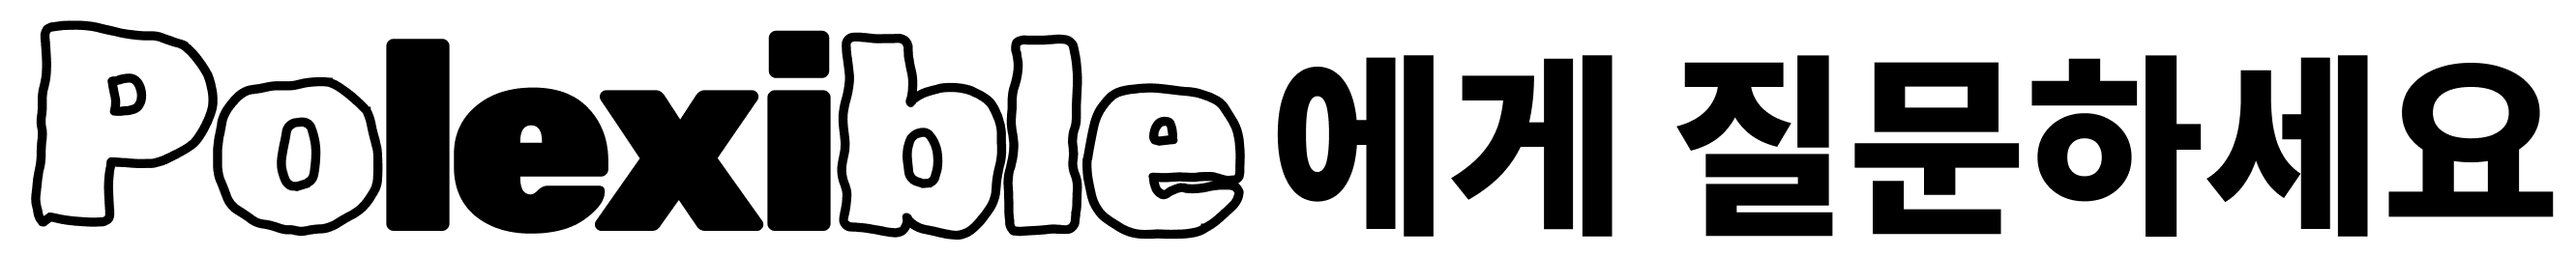
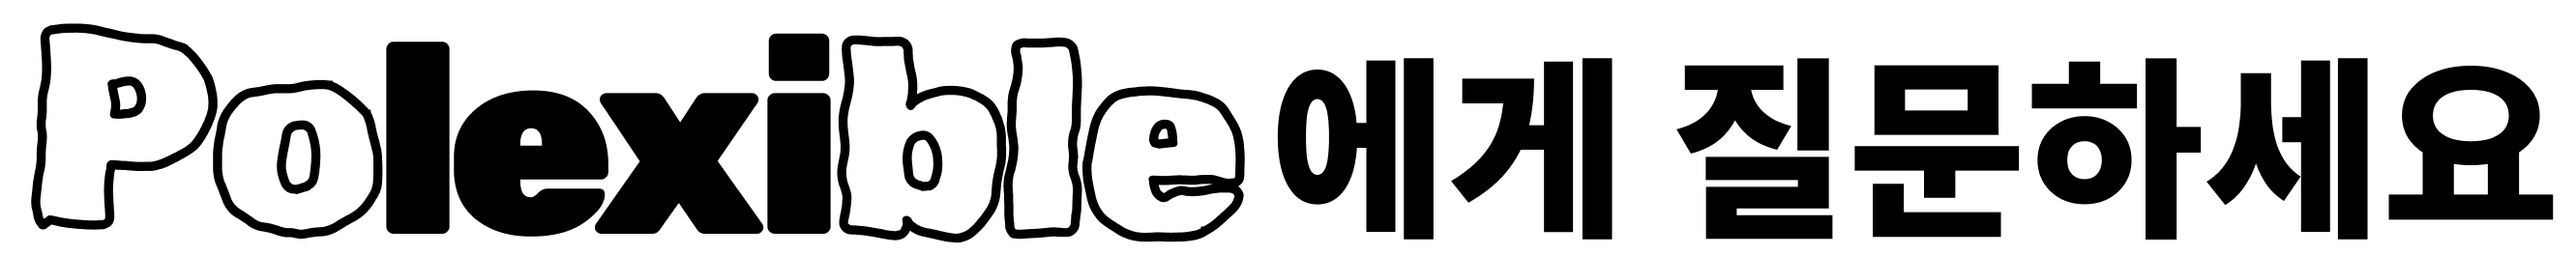
자잘 수정

diff --git a/src/features/Chatbot/Chatbot.module.css b/src/features/Chatbot/Chatbot.module.css
@@ -27,10 +27,10 @@
   gap: 0.5rem; */
   flex: 1;
   overflow-y: auto;
-  padding: 16px 12px 8px 12px;
+  padding: 16px 12px 8px 0px;
 }
 .logo {
-  width: 260px;
+  width: 250px;
 }
 
 .chatLog {
